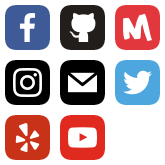
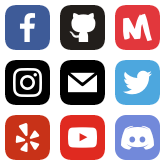
Added discord, added curation events calendar, changed date

Changed region(s): [[0.697, 0.697, 0.9697, 0.9697]]

diff --git a/home/public/css/maglab.css b/home/public/css/maglab.css
@@ -9,6 +9,7 @@
 .social-icons .sprite-twitter { width: 45px; height: 45px; background-position: -115px -60px; }
 .social-icons .sprite-yelp { width: 45px; height: 45px; background-position: -5px -115px; }
 .social-icons .sprite-youtube { width: 45px; height: 45px; background-position: -60px -115px; }
+.social-icons .sprite-discord { width: 45px; height: 45px; background-position: -115px -115px; }
 
 #header { padding: 50px 0; font-family: "Bree Serif", Eczar, Georgia, "Times New Roman", Times, serif; font-size: 20px; }
 #header nav { opacity: 0.6; }

diff --git a/home/protected/maglab/app/views/main/homepage.php b/home/protected/maglab/app/views/main/homepage.php
@@ -134,6 +134,9 @@ Menu
 <li>
 <a <?php echo MtHaml\Runtime::renderAttributes(array(array('class', 'sprite-github'), array('href', ('https://github.com/MAGLaboratory')), array('target', ('_blank'))), 'html5', 'UTF-8'); ?>></a>
 </li>
+<li>
+<a <?php echo MtHaml\Runtime::renderAttributes(array(array('class', 'sprite-discord'), array('href', ('https://discord.gg/rtzD3PA')), array('target', ('_blank'))), 'html5', 'UTF-8'); ?>></a>
+</li>
 </ul>
 </div>
 </div>
@@ -241,7 +244,7 @@ to check if--and for how long--the space will be open by the time you arrive.
 </div>
 </div>
 <div id="google-calendar" class="containment">
-<iframe src="https://www.google.com/calendar/embed?src=bjpkvaeg1rjq9u3c6utecq1jos%40group.calendar.google.com&amp;amp;ctz=America/Los_Angeles" style="border: 0" width="100%" height="650" frameborder="0" scrolling="no"></iframe>
+<iframe src="https://calendar.google.com/calendar/embed?wkst=1&amp;bgcolor=%23ffffff&amp;ctz=America%2FLos_Angeles&amp;src=Ympwa3ZhZWcxcmpxOXUzYzZ1dGVjcTFqb3NAZ3JvdXAuY2FsZW5kYXIuZ29vZ2xlLmNvbQ&amp;src=Y18za2VvdjNqM2xjNXFzY3E3NTRtYjRuMzhiNEBncm91cC5jYWxlbmRhci5nb29nbGUuY29t&amp;color=%234285F4&amp;color=%23F09300" style="border: 0" width="100%" height="650" frameborder="0" scrolling="no"></iframe>
 <p>The calendar does not list unplanned open times that occur when a keyed member is present.</p>
 </div>
 <?php include '_pricing.php'; ?>
@@ -251,7 +254,7 @@ to check if--and for how long--the space will be open by the time you arrive.
 <div id="footer" class="containment">
 <div class="container">
 <div class="row">
-<span class="text-center">Copyright &copy; 2011-2020 Makers, Artists, and Gadgeteers Laboratory, Inc</span>
+<span class="text-center">Copyright &copy; 2011-2022 Makers, Artists, and Gadgeteers Laboratory, Inc</span>
 </div>
 </div>
 </div>

diff --git a/home/protected/maglab/app/views/main/class_deposit.php b/home/protected/maglab/app/views/main/class_deposit.php
@@ -134,6 +134,9 @@ Menu
 <li>
 <a <?php echo MtHaml\Runtime::renderAttributes(array(array('class', 'sprite-github'), array('href', ('https://github.com/MAGLaboratory')), array('target', ('_blank'))), 'html5', 'UTF-8'); ?>></a>
 </li>
+<li>
+<a <?php echo MtHaml\Runtime::renderAttributes(array(array('class', 'sprite-discord'), array('href', ('https://discord.gg/rtzD3PA')), array('target', ('_blank'))), 'html5', 'UTF-8'); ?>></a>
+</li>
 </ul>
 </div>
 </div>
@@ -174,7 +177,7 @@ If you attend the class, you can get a refund, please remember to give your name
 <div id="footer" class="containment">
 <div class="container">
 <div class="row">
-<span class="text-center">Copyright &copy; 2011-2020 Makers, Artists, and Gadgeteers Laboratory, Inc</span>
+<span class="text-center">Copyright &copy; 2011-2022 Makers, Artists, and Gadgeteers Laboratory, Inc</span>
 </div>
 </div>
 </div>

diff --git a/home/protected/maglab/app/views/main/community.php b/home/protected/maglab/app/views/main/community.php
@@ -134,6 +134,9 @@ Menu
 <li>
 <a <?php echo MtHaml\Runtime::renderAttributes(array(array('class', 'sprite-github'), array('href', ('https://github.com/MAGLaboratory')), array('target', ('_blank'))), 'html5', 'UTF-8'); ?>></a>
 </li>
+<li>
+<a <?php echo MtHaml\Runtime::renderAttributes(array(array('class', 'sprite-discord'), array('href', ('https://discord.gg/rtzD3PA')), array('target', ('_blank'))), 'html5', 'UTF-8'); ?>></a>
+</li>
 </ul>
 </div>
 </div>
@@ -168,7 +171,7 @@ Mag Laboratory is glad that we made a difference by welding together Walnut Vall
 <div id="footer" class="containment">
 <div class="container">
 <div class="row">
-<span class="text-center">Copyright &copy; 2011-2020 Makers, Artists, and Gadgeteers Laboratory, Inc</span>
+<span class="text-center">Copyright &copy; 2011-2022 Makers, Artists, and Gadgeteers Laboratory, Inc</span>
 </div>
 </div>
 </div>

diff --git a/home/protected/maglab/app/views/main/membership.php b/home/protected/maglab/app/views/main/membership.php
@@ -134,6 +134,9 @@ Menu
 <li>
 <a <?php echo MtHaml\Runtime::renderAttributes(array(array('class', 'sprite-github'), array('href', ('https://github.com/MAGLaboratory')), array('target', ('_blank'))), 'html5', 'UTF-8'); ?>></a>
 </li>
+<li>
+<a <?php echo MtHaml\Runtime::renderAttributes(array(array('class', 'sprite-discord'), array('href', ('https://discord.gg/rtzD3PA')), array('target', ('_blank'))), 'html5', 'UTF-8'); ?>></a>
+</li>
 </ul>
 </div>
 </div>
@@ -257,7 +260,7 @@ Helps avoid dangerous situations like self-maiming and loss of limb from misuse 
 <div id="footer" class="containment">
 <div class="container">
 <div class="row">
-<span class="text-center">Copyright &copy; 2011-2020 Makers, Artists, and Gadgeteers Laboratory, Inc</span>
+<span class="text-center">Copyright &copy; 2011-2022 Makers, Artists, and Gadgeteers Laboratory, Inc</span>
 </div>
 </div>
 </div>

diff --git a/home/protected/maglab/app/views/main/donate.php b/home/protected/maglab/app/views/main/donate.php
@@ -134,6 +134,9 @@ Menu
 <li>
 <a <?php echo MtHaml\Runtime::renderAttributes(array(array('class', 'sprite-github'), array('href', ('https://github.com/MAGLaboratory')), array('target', ('_blank'))), 'html5', 'UTF-8'); ?>></a>
 </li>
+<li>
+<a <?php echo MtHaml\Runtime::renderAttributes(array(array('class', 'sprite-discord'), array('href', ('https://discord.gg/rtzD3PA')), array('target', ('_blank'))), 'html5', 'UTF-8'); ?>></a>
+</li>
 </ul>
 </div>
 </div>
@@ -163,7 +166,7 @@ $(function(){
 <div id="footer" class="containment">
 <div class="container">
 <div class="row">
-<span class="text-center">Copyright &copy; 2011-2020 Makers, Artists, and Gadgeteers Laboratory, Inc</span>
+<span class="text-center">Copyright &copy; 2011-2022 Makers, Artists, and Gadgeteers Laboratory, Inc</span>
 </div>
 </div>
 </div>

diff --git a/home/protected/maglab/app/views/main/pay4keyed.php b/home/protected/maglab/app/views/main/pay4keyed.php
@@ -134,6 +134,9 @@ Menu
 <li>
 <a <?php echo MtHaml\Runtime::renderAttributes(array(array('class', 'sprite-github'), array('href', ('https://github.com/MAGLaboratory')), array('target', ('_blank'))), 'html5', 'UTF-8'); ?>></a>
 </li>
+<li>
+<a <?php echo MtHaml\Runtime::renderAttributes(array(array('class', 'sprite-discord'), array('href', ('https://discord.gg/rtzD3PA')), array('target', ('_blank'))), 'html5', 'UTF-8'); ?>></a>
+</li>
 </ul>
 </div>
 </div>
@@ -163,7 +166,7 @@ $(function(){
 <div id="footer" class="containment">
 <div class="container">
 <div class="row">
-<span class="text-center">Copyright &copy; 2011-2020 Makers, Artists, and Gadgeteers Laboratory, Inc</span>
+<span class="text-center">Copyright &copy; 2011-2022 Makers, Artists, and Gadgeteers Laboratory, Inc</span>
 </div>
 </div>
 </div>

diff --git a/home/protected/maglab/app/views/main/_map_footer.php b/home/protected/maglab/app/views/main/_map_footer.php
@@ -2,7 +2,7 @@
 <div <?php echo MtHaml\Runtime::renderAttributes(array(array('style', ('background-color: #fcd89e;'))), 'html5', 'UTF-8'); ?>>
 <div class="container">
 <div class="row">
-<span class="text-center">Copyright &copy; 2011-2020 Makers, Artists, and Gadgeteers Laboratory, Inc</span>
+<span class="text-center">Copyright &copy; 2011-2022 Makers, Artists, and Gadgeteers Laboratory, Inc</span>
 </div>
 </div>
 </div>

diff --git a/home/protected/maglab/app/views/board/noEdit.php b/home/protected/maglab/app/views/board/noEdit.php
@@ -150,7 +150,7 @@ The edit code you are using is incorrect. You can not edit this posting.
 <div id="footer" class="containment">
 <div class="container">
 <div class="row">
-<span class="text-center">Copyright &copy; 2011-2020 Makers, Artists, and Gadgeteers Laboratory, Inc</span>
+<span class="text-center">Copyright &copy; 2011-2022 Makers, Artists, and Gadgeteers Laboratory, Inc</span>
 </div>
 </div>
 </div>

diff --git a/home/protected/maglab/app/views/hal/chart.php b/home/protected/maglab/app/views/hal/chart.php
@@ -171,7 +171,7 @@ function drawChart(){
 <div id="footer" class="containment">
 <div class="container">
 <div class="row">
-<span class="text-center">Copyright &copy; 2011-2020 Makers, Artists, and Gadgeteers Laboratory, Inc</span>
+<span class="text-center">Copyright &copy; 2011-2022 Makers, Artists, and Gadgeteers Laboratory, Inc</span>
 </div>
 </div>
 </div>

diff --git a/home/protected/maglab/app/views/board/index.php b/home/protected/maglab/app/views/board/index.php
@@ -196,7 +196,7 @@ No entries found.
 <div id="footer" class="containment">
 <div class="container">
 <div class="row">
-<span class="text-center">Copyright &copy; 2011-2020 Makers, Artists, and Gadgeteers Laboratory, Inc</span>
+<span class="text-center">Copyright &copy; 2011-2022 Makers, Artists, and Gadgeteers Laboratory, Inc</span>
 </div>
 </div>
 </div>

diff --git a/home/protected/maglab/app/views/hal/index.php b/home/protected/maglab/app/views/hal/index.php
@@ -195,7 +195,7 @@ $(function(){
 <div id="footer" class="containment">
 <div class="container">
 <div class="row">
-<span class="text-center">Copyright &copy; 2011-2020 Makers, Artists, and Gadgeteers Laboratory, Inc</span>
+<span class="text-center">Copyright &copy; 2011-2022 Makers, Artists, and Gadgeteers Laboratory, Inc</span>
 </div>
 </div>
 </div>
